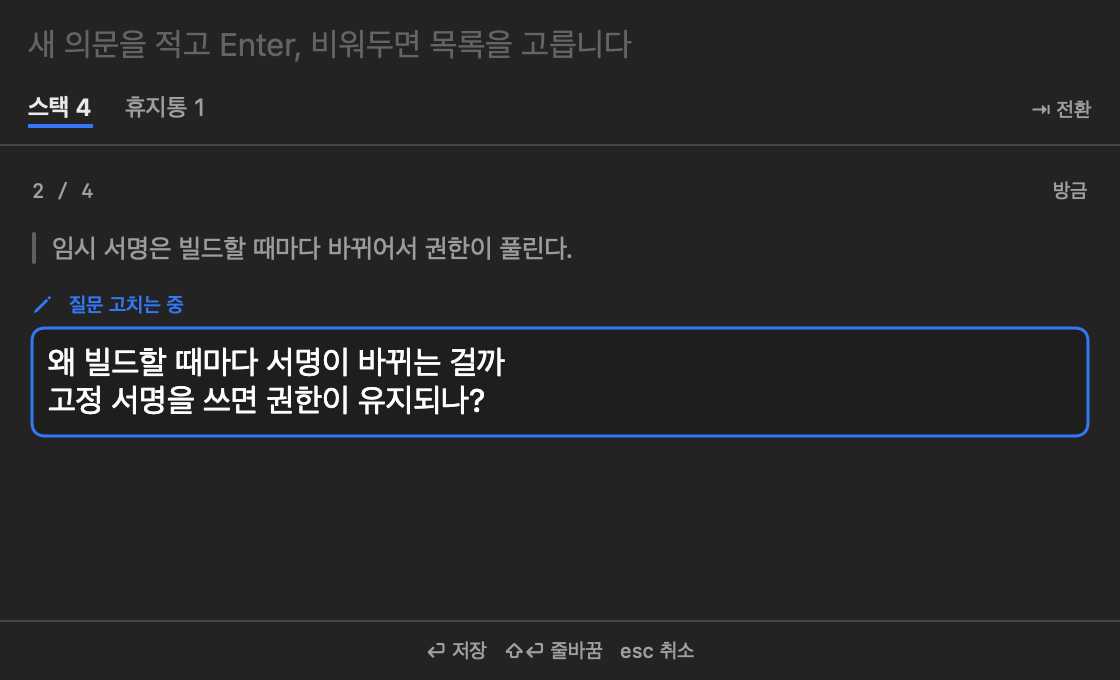
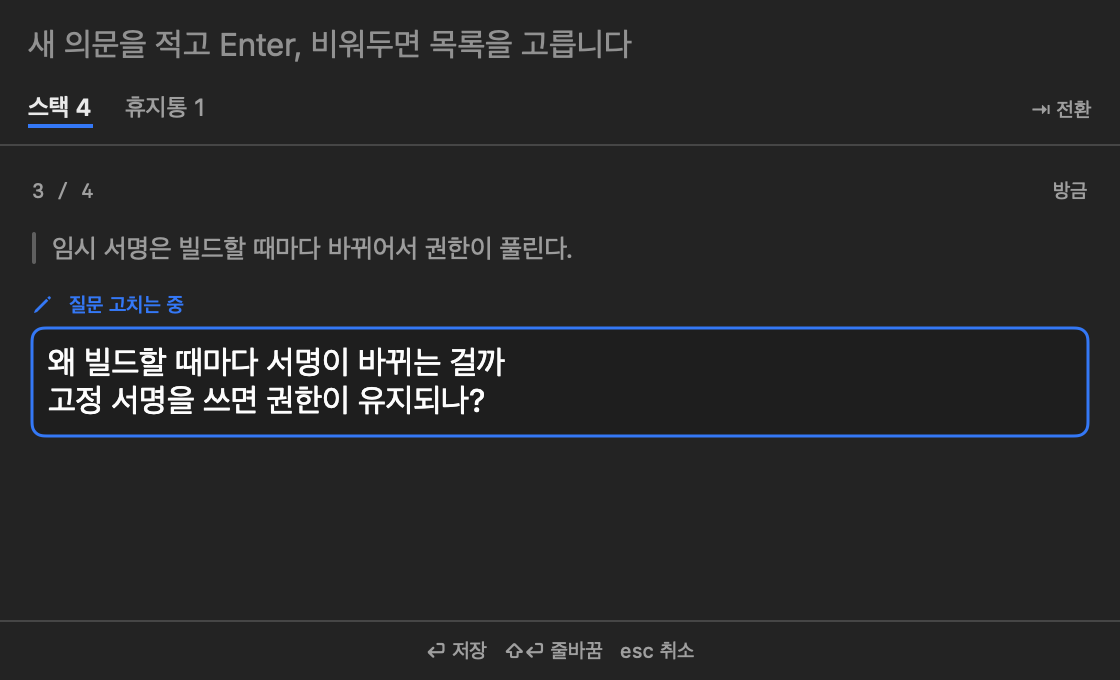
fix: 목록 번호를 아래에서부터 세기

Changed region(s): [[0.0312, 0.0309, 0.5625, 0.0926]]

diff --git a/Sources/HoldStack/HoldView.swift b/Sources/HoldStack/HoldView.swift
@@ -80,7 +80,7 @@ struct HoldView: View {
         ScrollView {
             VStack(alignment: .leading, spacing: 14) {
                 HStack {
-                    Text("\(model.selection + 1) / \(shownItems.count)")
+                    Text("\(shownItems.count - model.selection) / \(shownItems.count)")
                         .font(.system(.caption, design: .monospaced))
                     Spacer()
                     Text(Age.text(since: item.removedAt ?? item.createdAt)).font(.caption)
@@ -174,7 +174,7 @@ struct HoldView: View {
             ScrollView {
                 LazyVStack(spacing: 2) {
                     ForEach(Array(shownItems.enumerated()), id: \.element.id) { index, item in
-                        Row(item: item, index: index, selected: index == model.selection,
+                        Row(item: item, number: shownItems.count - index, selected: index == model.selection,
                             expanded: index == model.selection && model.expanded,
                             questionSize: prefs.questionFontSize, quoteSize: prefs.quoteFontSize,
                             deleteHelp: model.showingTrash ? L("지우기") : L("휴지통으로"),
@@ -200,7 +200,7 @@ struct HoldView: View {
 /// 목록 한 줄. 마우스를 올리면 오른쪽에 ✕ 가 나온다.
 private struct Row: View {
     let item: HoldItem
-    let index: Int
+    let number: Int
     let selected: Bool
     let expanded: Bool
     let questionSize: Double
@@ -213,7 +213,7 @@ private struct Row: View {
 
     var body: some View {
         HStack(alignment: .firstTextBaseline, spacing: 8) {
-            Text("\(index + 1)")
+            Text("\(number)")
                 .font(.system(.caption, design: .monospaced))
                 .foregroundStyle(selected ? .white.opacity(0.8) : .secondary)
             VStack(alignment: .leading, spacing: 3) {
